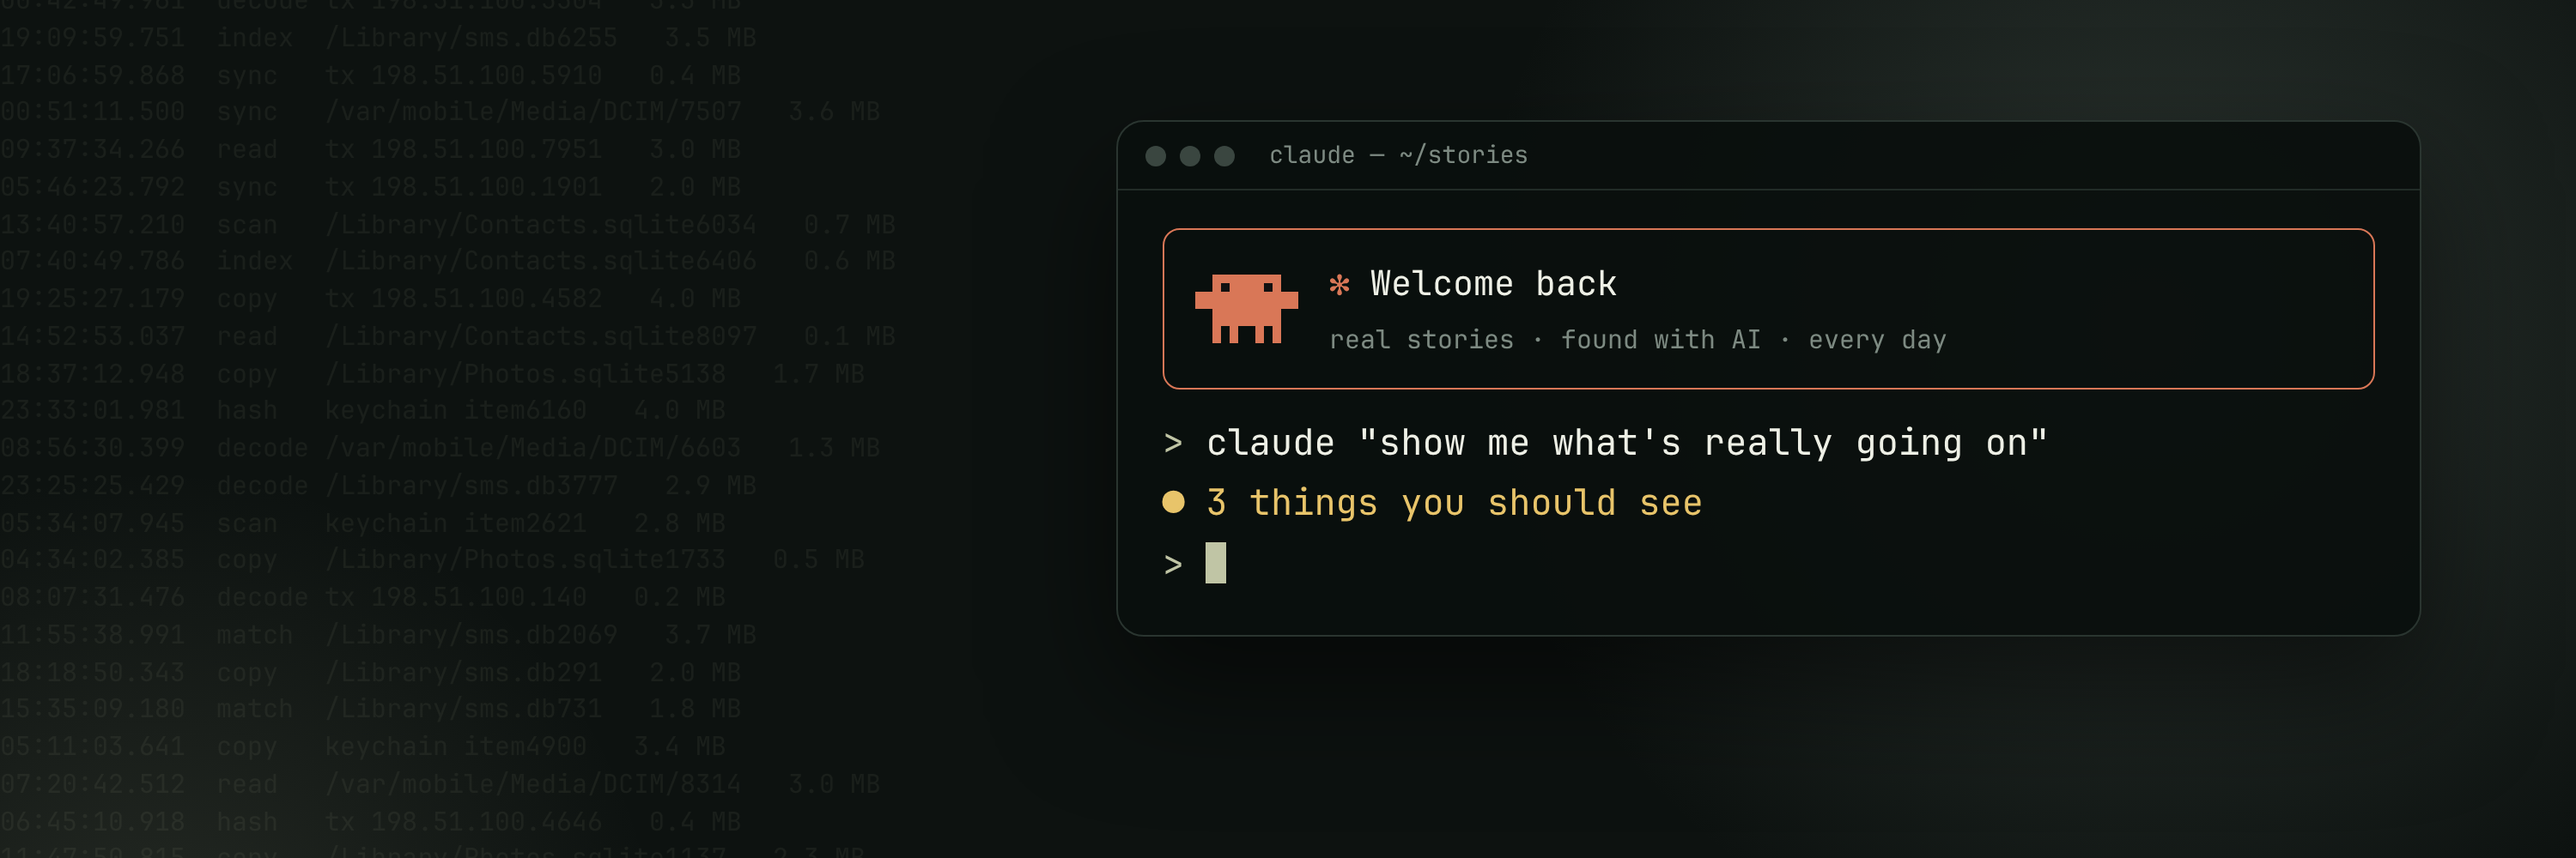
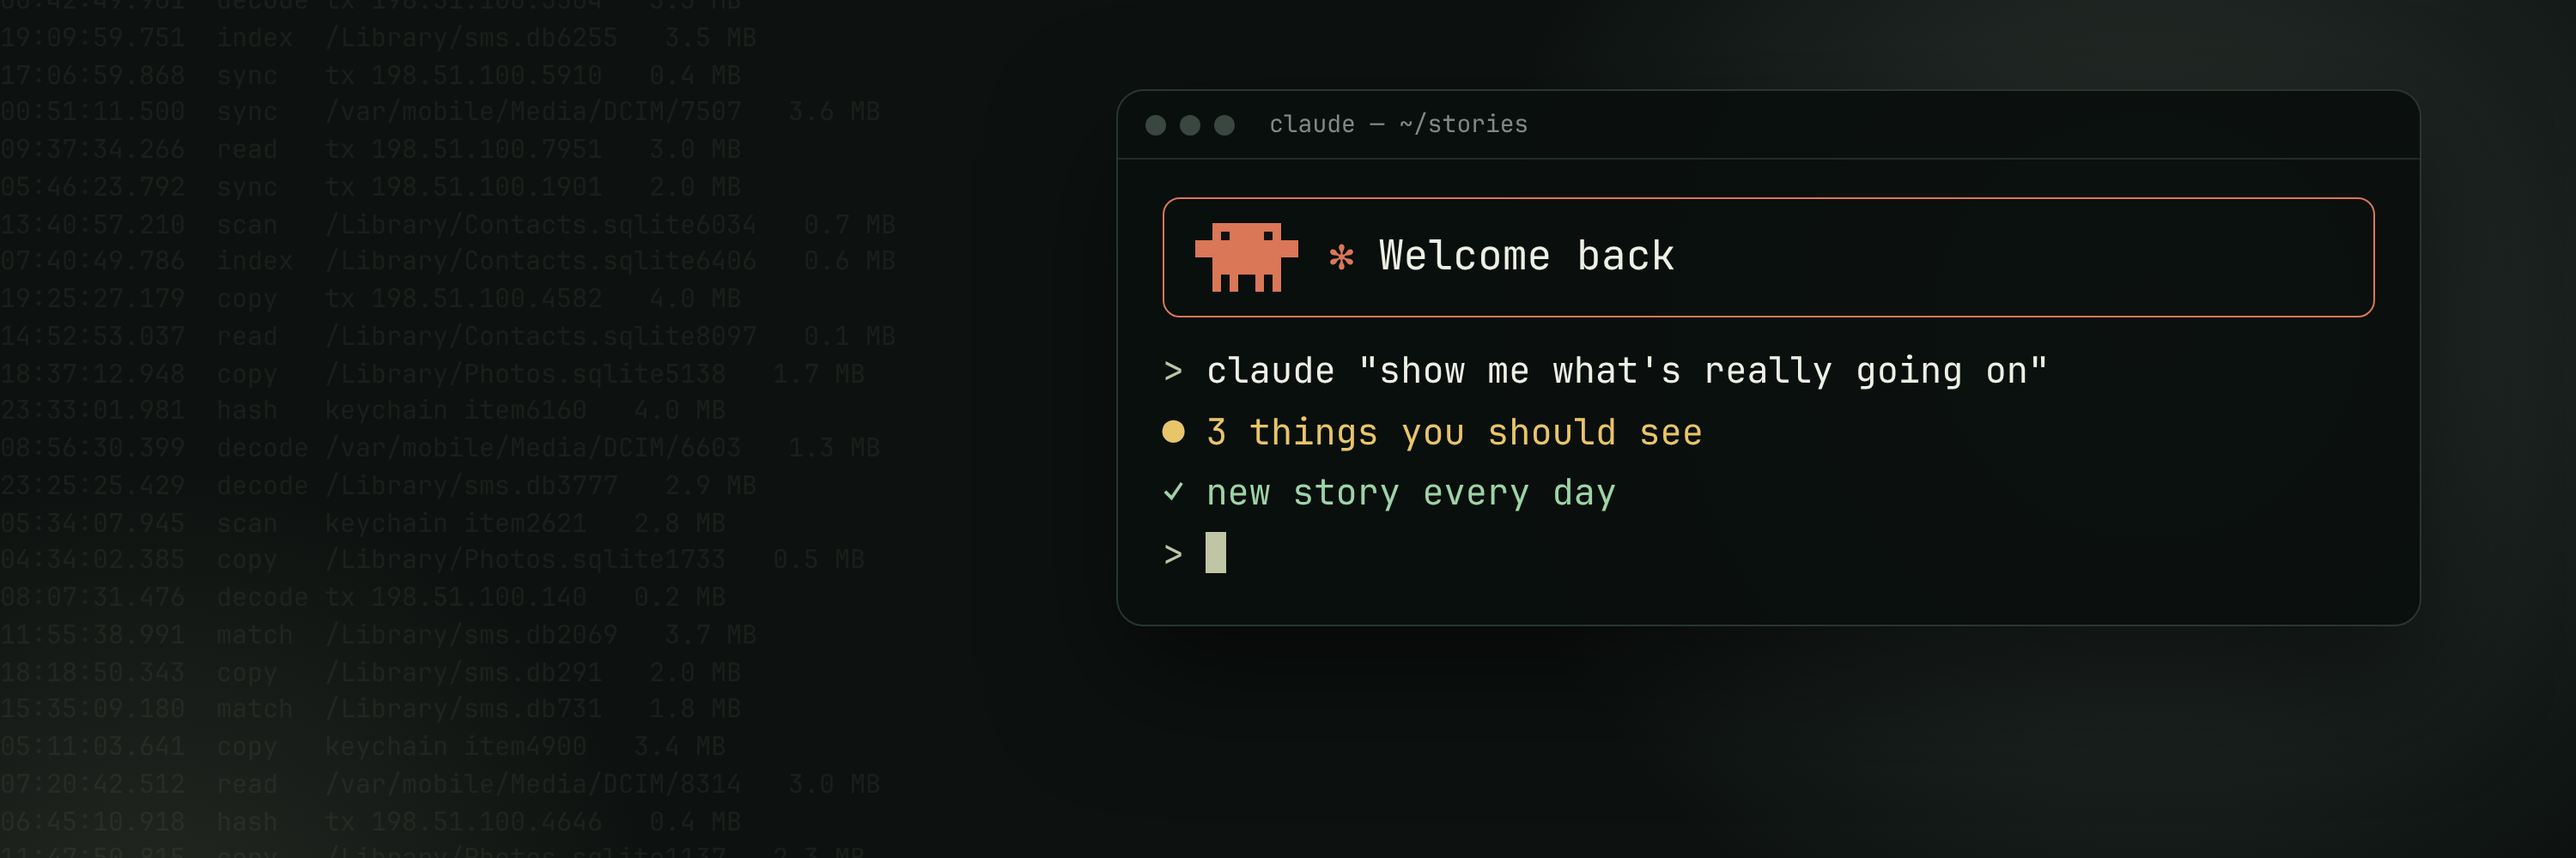
Header welcome variant: single centered title, three meaningful lines
Claude-Session: https://claude.ai/code/session_01NM4Jr7FW5n6NYfuvNkjQER

diff --git a/branding/build-headers.js b/branding/build-headers.js
@@ -97,17 +97,18 @@ V.term_sit = `<style>${TERM_CSS}
 
 // A3. Claude Code welcome box inside the terminal
 V.term_welcome = `<style>${TERM_CSS}
-.term{right:90px;top:70px;width:760px}
+.term{right:90px;top:52px;width:760px}
 .wb{border:1.5px solid #d97757;border-radius:10px;padding:14px 18px;display:flex;gap:18px;align-items:center;margin-bottom:14px}
-.wb .t{font-size:20px;color:var(--paper)} .wb .t span{color:#d97757} .wb .s{font-size:15px;color:var(--mut);margin-top:4px}
+.wb .t{font-size:24px;line-height:1;color:var(--paper)} .wb .t span{color:#d97757} .wb .s{font-size:15px;color:var(--mut);margin-top:4px}
 </style>
 <div class="glow"></div><div class="glow2"></div>
 <div style="position:absolute;inset:0;opacity:.07">${logTexture(30, 13, '#c0c5a5')}</div>
 <div class="term mono"><div class="bar"><i></i><i></i><i></i><span>claude — ~/stories</span></div>
 <div class="body">
-  <div class="wb">${mascot(5)}<div><div class="t"><span>✻</span> Welcome back</div><div class="s">real stories · found with AI · every day</div></div></div>
+  <div class="wb">${mascot(5)}<div class="t"><span>✻</span> Welcome back</div></div>
   <div><span class="p">&gt;</span> <span class="c">claude "show me what's really going on"</span></div>
   <div class="w">● 3 things you should see</div>
+  <div class="ok">✓ new story every day</div>
   <div><span class="p">&gt;</span> <span class="cur"></span></div>
 </div></div>
 `;
